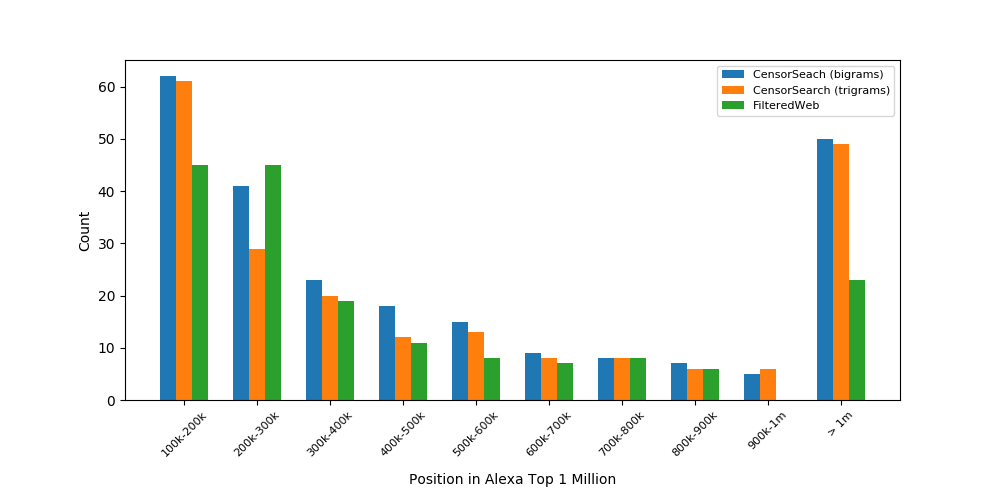
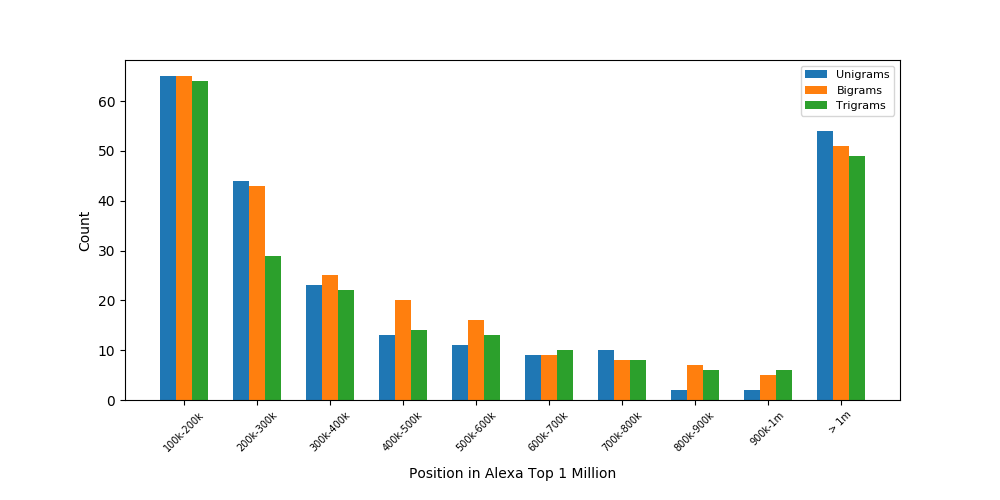
Re-generate figures with unigram data

diff --git a/paper/foci/figures/top-domains.py b/paper/foci/figures/top-domains.py
@@ -5,15 +5,17 @@ import matplotlib
 import numpy as np
 from matplotlib import pyplot
 from operator import itemgetter
+from collections import Counter
 
 
-def get_data():
-    conn = sqlite3.connect('../../../src/censor-search.db')
+def get_data(db):
+    conn = sqlite3.connect('../../../src/db/' + db)
     c = conn.cursor()
 
+    # Get Alexa Top 1000 domains
     top_1000 = []
     i = 1
-    with open ('../../../lists/top-1m.csv', 'r') as csvfile:
+    with open ('../../../lists/alexa.csv', 'r') as csvfile:
         csvreader = csv.reader(csvfile, delimiter=',', quotechar='|')
         for row in csvreader:
             if i < 1000:
@@ -22,7 +24,7 @@ def get_data():
             else:
                 break
             
-
+    # Get the URL counts for each domain, excluding Alexa Top 1000
     data = {}
     c.execute('select distinct domain from urls where censored=1 and iteration>0')
     rows = c.fetchall()
@@ -42,25 +44,32 @@ def get_data():
             data[domain] = count
     conn.close()
 
+    # Return the top 25 domains
     data = dict(heapq.nlargest(25, data.items(), key=itemgetter(1)))
     print(data)
     return data
 
 
 def make_fig():
-    data = get_data()
-    domains = list(data.keys())
-    counts = list(data.values())
+    # Get the top 25 domains across unigrams, bigrams, and trigrams, sorted
+    unigram_data = get_data('unigrams.db')
+    bigram_data = get_data('bigrams.db')
+    trigram_data = get_data('trigrams.db')
+    all_data = Counter(unigram_data) + Counter(bigram_data) + Counter(trigram_data)
+    all_data = dict(heapq.nlargest(25, all_data.items(), key=itemgetter(1)))
+
+    # Make a bar plot
+    domains = list(all_data.keys())
+    counts = list(all_data.values())
     y_pos = np.arange(len(domains))
     pyplot.figure(figsize=(10,5))
     pyplot.bar(y_pos, counts)
     pyplot.ylabel('Filtered URLs')
     pyplot.xticks(y_pos, domains, rotation=55, ha='right')
     pyplot.subplots_adjust(bottom=0.25)
-    pyplot.tick_params(axis='x', which='major', labelsize=9)
+    pyplot.tick_params(axis='x', which='major', labelsize=8)
     pyplot.savefig('top-domains.png')
     
 
 if __name__ == "__main__":
-    get_data()
     make_fig()

diff --git a/paper/foci/figures/alexa.py b/paper/foci/figures/alexa.py
@@ -12,10 +12,10 @@ from results import *
 BIN_SIZE = 100000
 
 def get_my_data(db):
-    domains = get_results(db, 1000000, False)
+    domains = get_results(db, 1000000)
     
     top_1m = {}
-    with open ('../../../lists/top-1m.csv', 'r') as csvfile:
+    with open ('../../../lists/alexa.csv', 'r') as csvfile:
         csvreader = csv.reader(csvfile, delimiter=',', quotechar='|')
         for row in csvreader:
             domain = row[1]
@@ -66,23 +66,23 @@ def get_filteredweb_data():
 
 
 def make_fig():
+    unigrams = get_my_data('unigrams.db')    
     bigrams = get_my_data('bigrams.db')
     trigrams = get_my_data('trigrams.db')
-    filteredweb = get_filteredweb_data()
     pyplot.figure(figsize=(10,5))
     x = np.arange(10)
     xticks = ("100k-200k", "200k-300k",
               "300k-400k", "400k-500k", "500k-600k",
               "600k-700k", "700k-800k", "800k-900k",
               "900k-1m", "> 1m")
-    pyplot.bar(x, bigrams[1:], 0.22, label='CensorSeach (bigrams)')
-    pyplot.bar(x + 0.22, trigrams[1:], 0.22, label='CensorSearch (trigrams)')
-    pyplot.bar(x + 0.44, filteredweb[1:], 0.22, label='FilteredWeb')
+    pyplot.bar(x, unigrams[1:], 0.22, label='Unigrams')
+    pyplot.bar(x + 0.22, bigrams[1:], 0.22, label='Bigrams')
+    pyplot.bar(x + 0.44, trigrams[1:], 0.22, label='Trigrams')
     pyplot.xlabel('Position in Alexa Top 1 Million', labelpad=10) 
     pyplot.ylabel('Count')
     pyplot.legend(loc='upper right', prop={'size': 8})
     pyplot.xticks(x + 0.22, xticks, rotation='45')
-    pyplot.tick_params(axis='x', which='major', labelsize=8)
+    pyplot.tick_params(axis='x', which='major', labelsize=7)
     pyplot.subplots_adjust(bottom=0.2)
     pyplot.savefig('alexa.png')
     

diff --git a/paper/foci/figures/urls-crawled.py b/paper/foci/figures/urls-crawled.py
@@ -2,27 +2,26 @@ import sys
 import sqlite3
 import matplotlib
 from matplotlib import pyplot
-sys.path.append('/Users/ahounsel/git/censor-search/src/')
+sys.path.append('../../../src/')
 from results import *
 
-def get_data(db, allDomains):
+def get_data(db):
     data = []
     for maxRows in range(0, 1100000, 100000):
-        count = len(get_results(db, maxRows, allDomains))
+        count = len(get_results(db, maxRows))
         data.append(count)
     return data
 
 
 def make_fig():
     x = [100000*i for i in range(0, 11)]
-    bigrams_all = get_data('bigrams.db', True)
-    trigrams_all = get_data('trigrams.db', True)
-    bigrams_subset = get_data('bigrams.db', False)
-    trigrams_subset = get_data('trigrams.db', False)
-    pyplot.plot(x, bigrams_all, label='Bigram results')
-    pyplot.plot(x, trigrams_all, label='Trigram results')
-    pyplot.plot(x, bigrams_subset, label='Bigram results w/o Top 1000')
-    pyplot.plot(x, trigrams_subset, label='Trigram results w/o Top 1000')
+    unigrams = get_data('unigrams.db')
+    bigrams = get_data('bigrams.db')
+    trigrams = get_data('trigrams.db')
+
+    pyplot.plot(x, unigrams, label='Unigrams')    
+    pyplot.plot(x, bigrams, label='Bigrams')
+    pyplot.plot(x, trigrams, label='Trigrams')
     pyplot.xlabel('URLs crawled')
     pyplot.ylabel('Censored domains')
     pyplot.legend(loc='lower right', prop={'size': 10})
